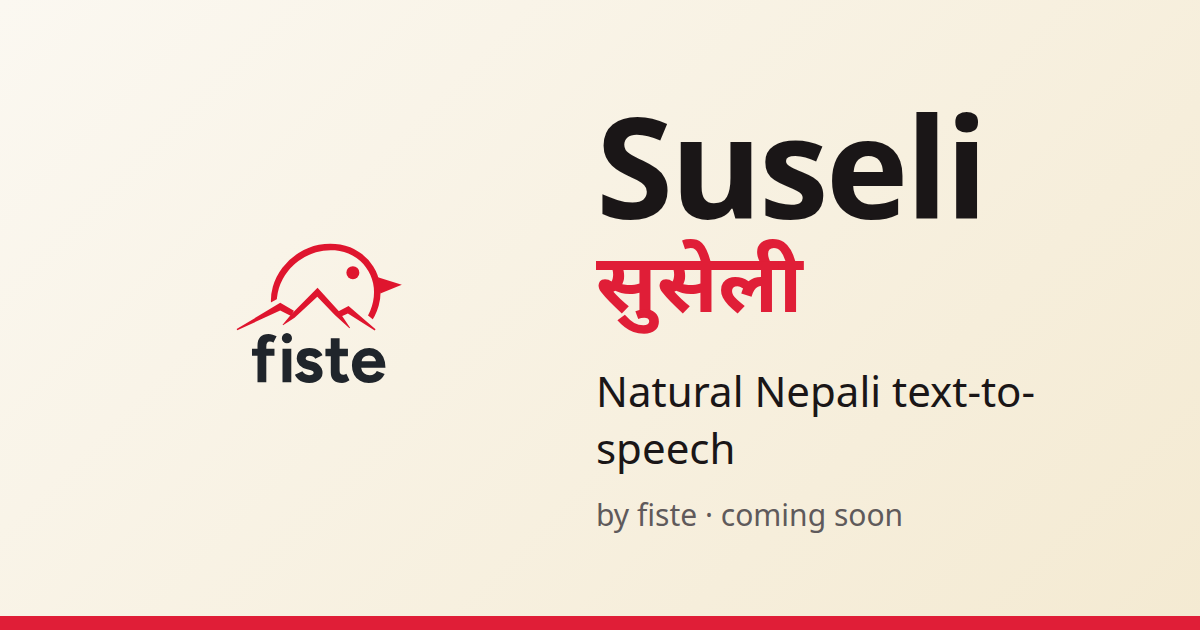
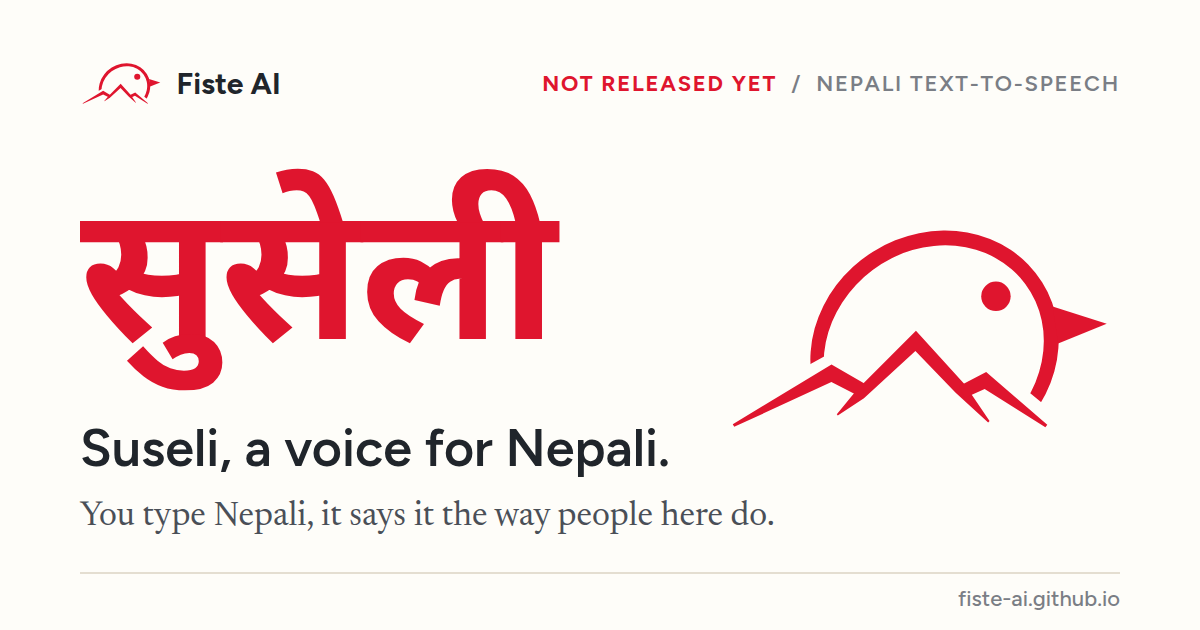
Update

diff --git a/index.html b/index.html
@@ -4,31 +4,36 @@
   <meta charset="utf-8">
   <meta name="viewport" content="width=device-width, initial-scale=1">
   <title>Suseli: Nepali text-to-speech by Fiste AI</title>
-  <meta name="description" content="Suseli (सुसेली) is a Nepali text-to-speech model in development by Fiste AI: natural, expressive Nepali voices, voice cloning with consent, and a small version that runs on your device.">
+  <meta name="description" content="Suseli (सुसेली) is a Nepali text-to-speech model we are building at Fiste AI. It is not released yet. This page says what it will do and when you can try it.">
   <link rel="canonical" href="https://fiste-ai.github.io/">
   <meta name="robots" content="index, follow">
   <meta name="author" content="Fiste AI">
-  <meta name="theme-color" content="#E01E37">
-  <meta name="color-scheme" content="light dark">
+  <meta name="theme-color" content="#FEFDF9">
+  <meta name="color-scheme" content="light">
 
   <meta property="og:type" content="website">
   <meta property="og:site_name" content="Fiste AI">
-  <meta property="og:title" content="Suseli: natural Nepali text-to-speech">
-  <meta property="og:description" content="A Nepali text-to-speech model in development by Fiste AI: natural and expressive Nepali voices, voice cloning with consent, and an on-device version.">
+  <meta property="og:title" content="Suseli: Nepali text-to-speech">
+  <meta property="og:description" content="A Nepali text-to-speech model from Fiste AI. Not released yet.">
   <meta property="og:url" content="https://fiste-ai.github.io/">
   <meta property="og:image" content="https://fiste-ai.github.io/assets/og.png">
   <meta property="og:image:width" content="1200">
   <meta property="og:image:height" content="630">
-  <meta property="og:image:alt" content="Suseli by Fiste AI: the head of a fiste over the Himalaya, and the words natural Nepali text-to-speech">
+  <meta property="og:image:alt" content="The fiste logo: a small bird's head over the Himalaya">
   <meta property="og:locale" content="en_US">
   <meta property="og:locale:alternate" content="ne_NP">
   <meta name="twitter:card" content="summary_large_image">
-  <meta name="twitter:title" content="Suseli: natural Nepali text-to-speech">
-  <meta name="twitter:description" content="A Nepali text-to-speech model in development by Fiste AI.">
+  <meta name="twitter:title" content="Suseli: Nepali text-to-speech">
+  <meta name="twitter:description" content="A Nepali text-to-speech model from Fiste AI. Not released yet.">
   <meta name="twitter:image" content="https://fiste-ai.github.io/assets/og.png">
 
   <link rel="icon" href="/assets/mark.svg" type="image/svg+xml">
+  <link rel="icon" href="/assets/mark.png" type="image/png">
   <link rel="manifest" href="/site.webmanifest">
+
+  <link rel="preconnect" href="https://fonts.googleapis.com">
+  <link rel="preconnect" href="https://fonts.gstatic.com" crossorigin>
+  <link rel="stylesheet" href="https://fonts.googleapis.com/css2?family=Figtree:wght@500;600;700&family=Newsreader:ital,opsz,wght@0,6..72,400;0,6..72,500;1,6..72,400&family=Noto+Sans+Devanagari:wght@500;700&family=Noto+Serif+Devanagari:wght@400;500&display=swap">
 
   <script type="application/ld+json">
   {
@@ -39,7 +44,7 @@
         "@id": "https://fiste-ai.github.io/#org",
         "name": "Fiste AI",
         "url": "https://fiste-ai.github.io/",
-        "logo": "https://fiste-ai.github.io/assets/mark.svg",
+        "logo": "https://fiste-ai.github.io/assets/mark.png",
         "description": "Fiste AI builds speech technology for the Nepali language.",
         "sameAs": ["https://huggingface.co/fiste-ai", "https://github.com/fiste-ai"]
       },
@@ -50,19 +55,6 @@
         "name": "Fiste AI",
         "inLanguage": ["en", "ne"],
         "publisher": {"@id": "https://fiste-ai.github.io/#org"}
-      },
-      {
-        "@type": "SoftwareApplication",
-        "name": "Suseli",
-        "alternateName": "सुसेली",
-        "url": "https://fiste-ai.github.io/",
-        "applicationCategory": "MultimediaApplication",
-        "applicationSubCategory": "Text-to-speech",
-        "operatingSystem": "Linux, macOS, Windows",
-        "inLanguage": "ne",
-        "description": "A Nepali text-to-speech model in development: natural and expressive Nepali voices, voice cloning with consent, and an on-device version.",
-        "creator": {"@id": "https://fiste-ai.github.io/#org"},
-        "isAccessibleForFree": true
       }
     ]
   }
@@ -70,72 +62,85 @@
 
   <style>
     :root {
-      --bg: #fbf8f1; --surface: #ffffff; --text: #1a1617; --muted: #5f5a5b; --line: #ebe3d3;
-      --brand: #E01E37; --brand-ink: #B8152B; --accent: #E01E37; --accent-soft: #fde8ea;
-      --sans: "Noto Sans", "Segoe UI", Roboto, "Helvetica Neue", Arial, sans-serif;
-      --deva: "Noto Sans Devanagari", "Mukta", "Kohinoor Devanagari", "Nirmala UI", "Noto Sans", sans-serif;
-    }
-    @media (prefers-color-scheme: dark) {
-      :root { --bg: #141213; --surface: #1d1a1b; --text: #f3eeee; --muted: #b3aaab; --line: #2e2829;
-              --brand: #FF5A6B; --brand-ink: #FF5A6B; --accent: #FF5A6B; --accent-soft: #2e1c1f; }
+      --paper: #FEFDF9; --paper-2: #F6F2E9; --ink: #20252B; --ink-2: #4A4F57; --ink-3: #7A7E85;
+      --rule: #E4DED1; --red: #DF152E; --red-dark: #B30F24;
+      --sans: "Figtree", system-ui, sans-serif;
+      --serif: "Newsreader", Georgia, "Times New Roman", serif;
+      --deva-sans: "Noto Sans Devanagari", "Mukta", sans-serif;
+      --deva-serif: "Noto Serif Devanagari", "Noto Sans Devanagari", serif;
     }
     * { box-sizing: border-box; }
     html { -webkit-text-size-adjust: 100%; }
-    body { margin: 0; background: var(--bg); color: var(--text); font: 17px/1.6 var(--sans); }
-    :lang(ne) { font-family: var(--deva); }
-    a { color: var(--brand-ink); }
-    a:focus-visible, .button:focus-visible { outline: 3px solid var(--accent); outline-offset: 3px; }
-    .wrap { max-width: 1040px; margin: 0 auto; padding: 0 22px; }
-    header.site { display: flex; align-items: center; justify-content: space-between; padding: 20px 0; }
-    .brand { display: flex; align-items: center; gap: 10px; color: var(--text); text-decoration: none; font-weight: 700; font-size: 19px; }
-    .brand img { height: 38px; width: auto; display: block; }
-    nav a { margin-left: 18px; color: var(--muted); text-decoration: none; font-size: 15px; }
-    nav a:hover { color: var(--text); }
-    .hero { display: grid; grid-template-columns: 1.15fr 0.85fr; gap: 28px; align-items: center; padding: 34px 0 54px; }
-    .status { display: inline-block; background: var(--accent-soft); color: var(--text); border: 1px solid var(--line);
-              border-radius: 999px; padding: 4px 12px; font-size: 14px; }
-    h1 { font-size: clamp(46px, 8vw, 84px); line-height: 1.02; margin: 16px 0 6px; letter-spacing: -0.02em; }
-    h1 .deva { display: block; font-size: 0.62em; color: var(--brand); font-weight: 700; letter-spacing: 0; margin-top: 6px; }
-    .lead { font-size: 21px; margin: 18px 0 6px; max-width: 34ch; }
-    .lead-ne { color: var(--muted); margin: 0 0 26px; font-size: 19px; }
-    .buttons { display: flex; flex-wrap: wrap; gap: 12px; }
-    .button { display: inline-block; padding: 12px 20px; border-radius: 10px; text-decoration: none; font-weight: 600; font-size: 16px; }
-    .button.primary { background: var(--brand); color: #fff; }
-    @media (prefers-color-scheme: dark) { .button.primary { color: #141213; } }
-    .button.secondary { border: 1px solid var(--line); color: var(--text); background: var(--surface); }
-    .hero-art { display: flex; justify-content: center; }
-    .hero-art img { width: min(440px, 86vw); height: auto; }
-    section { padding: 46px 0; border-top: 1px solid var(--line); }
-    h2 { font-size: 30px; margin: 0 0 8px; }
-    .sub { color: var(--muted); margin: 0 0 26px; }
-    .grid { display: grid; grid-template-columns: repeat(4, 1fr); gap: 16px; }
-    .card { background: var(--surface); border: 1px solid var(--line); border-radius: 14px; padding: 20px; }
-    .card h3 { margin: 0 0 4px; font-size: 18px; }
-    .card .ne { color: var(--brand-ink); margin: 0 0 10px; font-size: 16px; }
-    .card p { margin: 0; color: var(--muted); font-size: 15.5px; }
-    .story { display: grid; grid-template-columns: 0.9fr 1.1fr; gap: 28px; align-items: start; }
-    .story blockquote { margin: 0; padding: 18px 20px; background: var(--surface); border-left: 4px solid var(--accent); border-radius: 10px; }
-    .story blockquote p { margin: 0 0 6px; }
-    footer { border-top: 1px solid var(--line); padding: 28px 0 40px; color: var(--muted); font-size: 15px; }
-    footer .row { display: flex; flex-wrap: wrap; justify-content: space-between; gap: 12px; }
-    footer a { color: var(--muted); }
-    @media (max-width: 860px) {
-      .hero, .story { grid-template-columns: 1fr; }
+    body { margin: 0; background: var(--paper); color: var(--ink); font: 400 20px/1.6 var(--serif); }
+    :lang(ne) { font-family: var(--deva-serif); }
+    a { color: inherit; text-decoration-color: var(--red); text-decoration-thickness: 2px; text-underline-offset: 3px; }
+    a:hover { color: var(--red-dark); }
+    a:focus-visible { outline: 2px solid var(--red); outline-offset: 3px; border-radius: 2px; }
+    .wrap { max-width: 980px; margin: 0 auto; padding: 0 24px; }
+
+    header.site { display: flex; align-items: center; justify-content: space-between; padding: 22px 0;
+                  font-family: var(--sans); font-size: 15px; }
+    .brand { display: flex; align-items: center; gap: 10px; text-decoration: none; font-weight: 700; font-size: 18px; }
+    .brand img { height: 34px; width: auto; }
+    header nav a { margin-left: 22px; text-decoration: none; color: var(--ink-2); font-weight: 500; }
+    header nav a:hover { color: var(--ink); }
+
+    .hero { display: grid; grid-template-columns: 1.3fr 1fr; gap: 40px; align-items: end; padding: 56px 0 64px; }
+    .kicker { font: 600 14px/1.4 var(--sans); letter-spacing: .08em; text-transform: uppercase; color: var(--ink-3); margin: 0 0 28px; }
+    .kicker b { color: var(--red); font-weight: 700; }
+    h1 { margin: 0; font: 700 clamp(64px, 11vw, 128px)/1.3 var(--deva-sans); color: var(--red); letter-spacing: -0.01em; }
+    h1 small { display: block; margin-top: 4px; font: 600 clamp(22px, 3vw, 28px)/1.2 var(--sans); color: var(--ink); letter-spacing: 0; }
+    .hero-text { font-size: 22px; max-width: 30ch; margin: 28px 0 0; }
+    .hero-art img { width: 100%; max-width: 380px; height: auto; display: block; margin-left: auto; }
+
+    .note { background: var(--paper-2); border-radius: 4px; padding: 22px 26px; font: 500 16px/1.55 var(--sans);
+            color: var(--ink-2); display: flex; gap: 18px; align-items: baseline; flex-wrap: wrap; }
+    .note strong { color: var(--ink); }
+    .note a { font-weight: 600; color: var(--ink); white-space: nowrap; }
+
+    section { padding: 72px 0 8px; }
+    h2 { font: 700 15px/1 var(--sans); letter-spacing: .08em; text-transform: uppercase; color: var(--ink-3);
+         margin: 0 0 28px; padding-bottom: 14px; border-bottom: 1px solid var(--rule); }
+    .cols { display: grid; grid-template-columns: 1fr 1fr; gap: 12px 56px; }
+    .cols p { margin: 0 0 18px; }
+    .lede { font-size: 26px; line-height: 1.4; max-width: 34ch; margin: 0 0 32px; }
+
+    ol.plans { list-style: none; padding: 0; margin: 0; counter-reset: n; }
+    ol.plans li { counter-increment: n; display: grid; grid-template-columns: 56px 1fr; padding: 20px 0; border-bottom: 1px solid var(--rule); }
+    ol.plans li::before { content: counter(n, decimal-leading-zero); font: 600 15px/2 var(--sans); color: var(--red); }
+    ol.plans h3 { margin: 0 0 4px; font: 600 21px/1.3 var(--sans); }
+    ol.plans h3 span { font: 500 17px var(--deva-sans); color: var(--ink-3); margin-left: 10px; }
+    ol.plans p { margin: 0; color: var(--ink-2); max-width: 60ch; }
+
+    .name { display: grid; grid-template-columns: 220px 1fr; gap: 48px; align-items: start; }
+    .word { font: 700 44px/1.1 var(--deva-sans); color: var(--ink); margin: 0; }
+    .word span { display: block; font: italic 400 20px var(--serif); color: var(--ink-3); margin-top: 6px; }
+    .word + .word { margin-top: 26px; }
+    .name p { margin: 0 0 18px; }
+
+    footer { margin-top: 88px; border-top: 1px solid var(--rule); padding: 28px 0 44px; font: 500 15px/1.6 var(--sans); color: var(--ink-3); }
+    footer .row { display: flex; justify-content: space-between; flex-wrap: wrap; gap: 12px; }
+    footer a { color: var(--ink-2); }
+
+    @media (max-width: 820px) {
+      body { font-size: 18px; }
+      .hero, .cols, .name { grid-template-columns: 1fr; }
+      .hero { padding-top: 24px; gap: 24px; }
       .hero-art { order: -1; }
-      .hero-art img { width: 220px; }
-      .grid { grid-template-columns: repeat(2, 1fr); }
+      .hero-art { display: none; }
+      .lede { font-size: 22px; }
+      header nav a:not(.keep) { display: none; }
     }
-    @media (max-width: 520px) { .grid { grid-template-columns: 1fr; } nav a:not(.keep) { display: none; } }
   </style>
 </head>
 <body>
   <div class="wrap">
     <header class="site">
-      <a class="brand" href="/" aria-label="Fiste AI home"><img src="/assets/mark.svg" alt="fiste" height="38"></a>
+      <a class="brand" href="/" aria-label="Fiste AI home"><img src="/assets/mark.svg" alt="" width="61" height="34">Fiste AI</a>
       <nav aria-label="Main">
-        <a href="#suseli">Suseli</a>
+        <a href="#about">About</a>
         <a href="#name">The name</a>
-        <a class="keep" href="https://huggingface.co/fiste-ai" rel="noopener">Hugging Face</a>
+        <a class="keep" href="https://huggingface.co/fiste-ai/suseli" rel="noopener">Hugging Face</a>
         <a class="keep" href="https://github.com/fiste-ai" rel="noopener">GitHub</a>
       </nav>
     </header>
@@ -143,69 +148,69 @@
     <main>
       <div class="hero">
         <div>
-          <span class="status">In development · first release on Hugging Face</span>
-          <h1>Suseli <span class="deva" lang="ne">सुसेली</span></h1>
-          <p class="lead">Natural Nepali text-to-speech, with the rhythm and melody of spoken Nepali.</p>
-          <p class="lead-ne" lang="ne">नेपाली भाषाका लागि स्वाभाविक आवाज।</p>
-          <div class="buttons">
-            <a class="button primary" href="https://huggingface.co/fiste-ai/suseli" rel="noopener">Follow on Hugging Face</a>
-            <a class="button secondary" href="https://github.com/fiste-ai/suseli" rel="noopener">GitHub</a>
-          </div>
+          <p class="kicker"><b>Not released yet</b> &nbsp;/&nbsp; Nepali text-to-speech</p>
+          <h1 lang="ne">सुसेली<small lang="en">Suseli, a voice for Nepali.</small></h1>
+          <p class="hero-text">You type Nepali, it reads it back the way a person from here would say it. That is the whole idea, and it turns out to be hard.</p>
         </div>
-        <div class="hero-art"><picture><img src="/assets/logo.svg" alt="fiste" width="440" height="293"></picture></div>
+        <div class="hero-art"><img src="/assets/logo.svg" alt="The fiste logo: a small bird's head over the Himalaya, above the word fiste" width="380" height="324"></div>
       </div>
 
-      <section id="suseli" aria-labelledby="what">
-        <h2 id="what">What Suseli is being built to do</h2>
-        <p class="sub">A text-to-speech model for the Nepali language, made in Nepal.</p>
-        <div class="grid">
-          <article class="card">
-            <h3>Natural Nepali</h3>
-            <p class="ne" lang="ne">स्वाभाविक नेपाली</p>
-            <p>Clear pronunciation and the rhythm of spoken Nepali, including the rise at the end of a question.</p>
-          </article>
-          <article class="card">
-            <h3>Expressive</h3>
-            <p class="ne" lang="ne">भावसहितको बोली</p>
-            <p>Tell it how to speak: calm, cheerful, serious or sad.</p>
-          </article>
-          <article class="card">
-            <h3>Many voices</h3>
-            <p class="ne" lang="ne">धेरै आवाज</p>
-            <p>Built-in voices, and a new voice from a short recording, only with the speaker's consent.</p>
-          </article>
-          <article class="card">
-            <h3>Small and fast</h3>
-            <p class="ne" lang="ne">सानो र छिटो</p>
-            <p>A compact version that runs on a laptop processor or a phone, without a server.</p>
-          </article>
+      <div class="note">
+        <span><strong>Where things stand:</strong> we are still training and listening. The weights will go up on Hugging Face when they sound right, not before.</span>
+        <a href="https://huggingface.co/fiste-ai/suseli" rel="noopener">Follow the model page &rarr;</a>
+      </div>
+
+      <section id="about" aria-labelledby="about-title">
+        <h2 id="about-title">Why we are doing this</h2>
+        <p class="lede">Most Nepali voices you hear from a computer sound like a word list being read out loud.</p>
+        <div class="cols">
+          <p>They get the letters right and the sentence wrong. A question comes out flat. The stress lands on the wrong word. Numbers, dates and English words dropped into a Nepali sentence trip them up, and that is how most people actually talk.</p>
+          <p>We want something you could leave running in a phone menu, a reading app or a screen reader without wincing. That means getting the small things right, and testing it with people who speak Nepali every day.</p>
         </div>
+      </section>
+
+      <section aria-labelledby="plans-title">
+        <h2 id="plans-title">What we are working on</h2>
+        <ol class="plans">
+          <li><div><h3>Sounding like speech <span lang="ne">स्वाभाविक बोली</span></h3>
+            <p>Clear pronunciation, natural pauses, and the rise at the end of a question.</p></div></li>
+          <li><div><h3>Tone of voice <span lang="ne">भाव</span></h3>
+            <p>Asking it to read something calmly, cheerfully or seriously, and having it actually do that.</p></div></li>
+          <li><div><h3>More than one voice <span lang="ne">धेरै आवाज</span></h3>
+            <p>A few built-in voices, plus making a new one from a short recording, but only of someone who has said yes.</p></div></li>
+          <li><div><h3>Running on your own machine <span lang="ne">सानो र छिटो</span></h3>
+            <p>A small version for an ordinary laptop or a phone, so it works without sending your text anywhere.</p></div></li>
+        </ol>
       </section>
 
       <section id="name" aria-labelledby="name-title">
-        <div class="story">
+        <h2 id="name-title">The name</h2>
+        <div class="name">
           <div>
-            <h2 id="name-title">The name</h2>
-            <p class="sub">Two small sounds of Nepal, and the mountains they come from.</p>
+            <p class="word" lang="ne">सुसेली<span lang="en">suseli</span></p>
+            <p class="word" lang="ne">फिस्टे<span lang="en">fiste</span></p>
           </div>
-          <blockquote>
-            <p><span lang="ne">सुसेली</span> (suseli) is a tune you whistle.</p>
-            <p><span lang="ne">फिस्टो</span>, also called <span lang="ne">फिस्टे</span> (fiste), is the name for the small warbler birds of Nepal. One of them, the <span lang="ne">सुसेली फिस्टो</span>, is the Whistler's warbler.</p>
-            <p>Our mark is the head of a fiste over the Himalaya: a ring for the head, and the mountains in brush strokes.</p>
-          </blockquote>
+          <div>
+            <p><span lang="ne">सुसेली</span> is the tune you whistle to yourself without thinking about it, walking somewhere or waiting for tea.</p>
+            <p><span lang="ne">फिस्टो</span>, or <span lang="ne">फिस्टे</span>, is what we call the small warblers you hear in the hills before you see them. One of them is even named for the sound: the <span lang="ne">सुसेली फिस्टो</span>, the Whistler's warbler.</p>
+            <p>So the logo is one of those birds, looking out over the mountains.</p>
+          </div>
         </div>
       </section>
 
-      <section id="responsible" aria-labelledby="resp-title">
-        <h2 id="resp-title">Responsible use</h2>
-        <p class="sub">A voice belongs to a person. Suseli will create a new voice only from recordings the user has the right to use, and its terms will forbid impersonation and fraud.</p>
+      <section aria-labelledby="voices-title">
+        <h2 id="voices-title">A note on voices</h2>
+        <div class="cols">
+          <p>A voice belongs to the person it came from. Suseli will only make a new voice from a recording you have the right to use.</p>
+          <p>Its licence will not allow pretending to be someone else, or using a cloned voice to trick people. We would rather ship later than ship something that makes that easy.</p>
+        </div>
       </section>
     </main>
 
     <footer>
       <div class="row">
-        <span>© 2026 Fiste AI · Speech technology for Nepali</span>
-        <span><a href="https://huggingface.co/fiste-ai" rel="noopener">Hugging Face</a> · <a href="https://github.com/fiste-ai" rel="noopener">GitHub</a></span>
+        <span>Fiste AI, made in Nepal. &copy; 2026</span>
+        <span><a href="https://huggingface.co/fiste-ai" rel="noopener">Hugging Face</a> &nbsp;&middot;&nbsp; <a href="https://github.com/fiste-ai" rel="noopener">GitHub</a></span>
       </div>
     </footer>
   </div>

diff --git a/404.html b/404.html
@@ -7,16 +7,18 @@
   <meta name="robots" content="noindex">
   <link rel="icon" href="/assets/mark.svg" type="image/svg+xml">
   <style>
-    body { margin: 0; min-height: 100vh; display: grid; place-items: center; background: #fbf8f1; color: #1a1617;
-           font: 17px/1.6 "Noto Sans", "Segoe UI", Roboto, Arial, sans-serif; text-align: center; }
-    @media (prefers-color-scheme: dark) { body { background: #141213; color: #f3eeee; } a { color: #FF5A6B; } }
-    a { color: #E01E37; } img { width: 120px; height: 120px; }
+    body { margin: 0; min-height: 100vh; display: grid; place-items: center; background: #FEFDF9; color: #20252B;
+           font: 18px/1.6 Georgia, serif; text-align: center; }
+    h1 { font: 700 28px/1.3 system-ui, sans-serif; }
+    a { color: #20252B; text-decoration-color: #DF152E; text-decoration-thickness: 2px; text-underline-offset: 3px; }
+    img { width: 160px; height: auto; }
   </style>
 </head>
 <body>
   <main>
     <img src="/assets/mark.svg" alt="">
-    <h1>This page flew away.</h1>
+    <h1>Nothing here.</h1>
+    <p>The page you wanted has moved, or never existed.</p>
     <p><a href="/">Back to Fiste AI</a></p>
   </main>
 </body>
